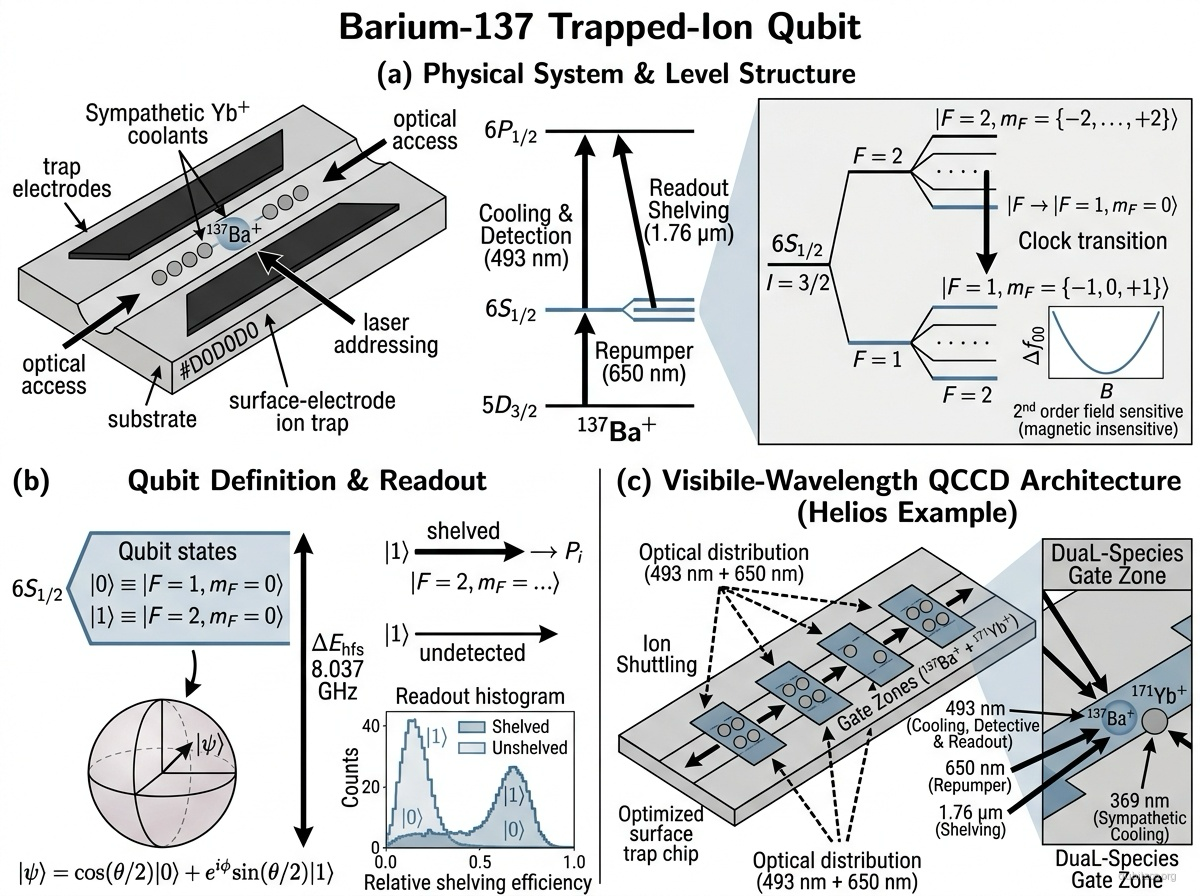
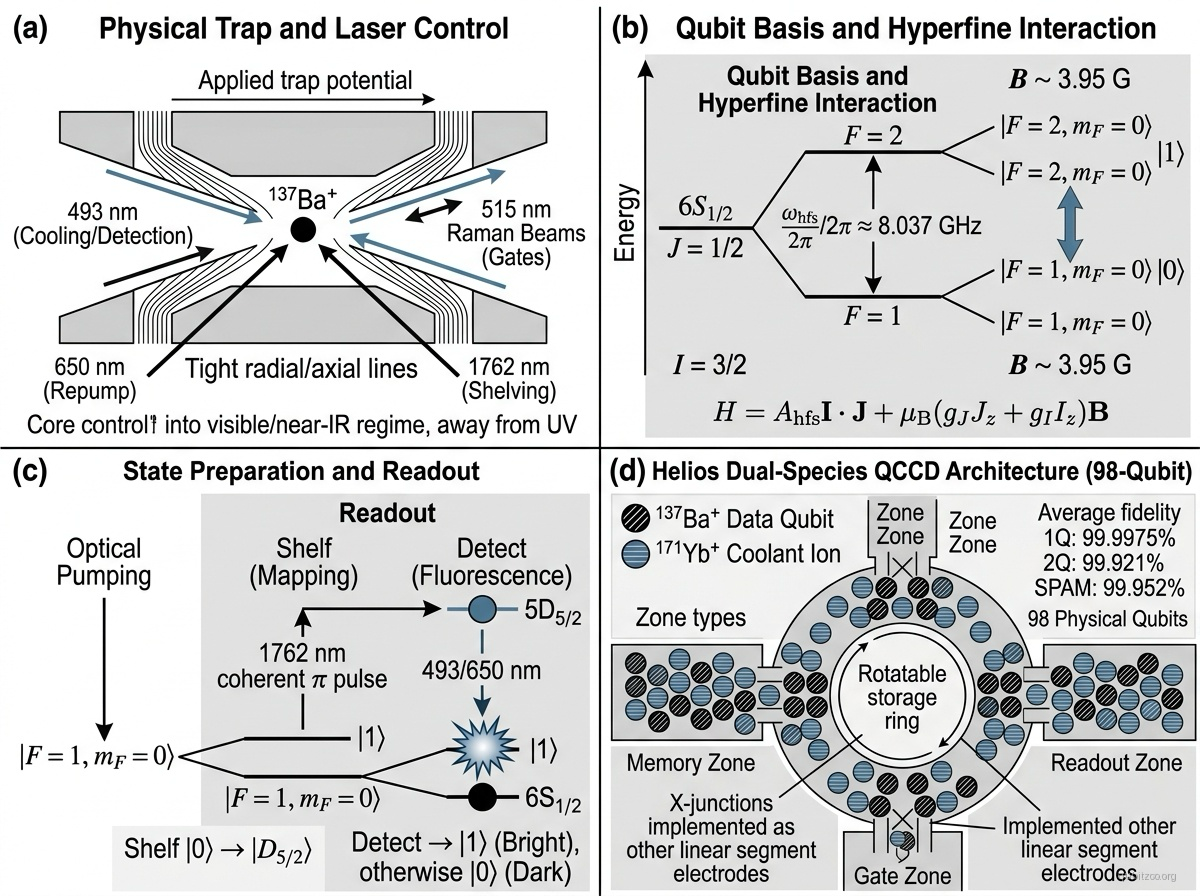
audit: deep-audit barium-137 trapped-ion entry

diff --git a/content/Zoo/barium-137-ion-qubit.md b/content/Zoo/barium-137-ion-qubit.md
@@ -3,7 +3,7 @@ title: Barium-137 Trapped-Ion Qubit
 entry_type: qubit
 technology_family: Trapped Ion
 status: demonstrated
-figure_reviewed: false
+figure_reviewed: true
 first_proposed_year: 2010
 first_demonstrated_year: 2010
 keywords:
@@ -18,10 +18,10 @@ keywords:
 - QCCD
 - dual species
 influence_score: 0.82
-last_updated: '2026-04-04'
+last_updated: '2026-04-06'
 generated_by: scibok-curation
 extracted_by: scibok
-verified_by: scibok-manual-2026-04-04
+verified_by: scibok-deep-audit-2026-04-06
 ---
 
 ## Figure
@@ -30,83 +30,93 @@ verified_by: scibok-manual-2026-04-04
 
 ## Description
 
-The barium-137 trapped-ion qubit encodes quantum information in the hyperfine clock states of the $^{137}\text{Ba}^+$ ion's $6S_{1/2}$ ground-state manifold. With nuclear spin $I = 3/2$, the ground state splits into $F = 1$ and $F = 2$ hyperfine levels separated by approximately 8.037 GHz. The qubit is defined on the magnetically insensitive $|F=2, m_F=0\rangle \leftrightarrow |F=1, m_F=0\rangle$ clock transition, providing first-order immunity to magnetic field fluctuations.
+The barium-137 trapped-ion qubit encodes quantum information in the hyperfine manifold of the $6S_{1/2}$ ground state of $^{137}\mathrm{Ba}^+$. With nuclear spin $I=3/2$, the ground state splits into $F=1$ and $F=2$ hyperfine levels separated by $\omega_{\mathrm{hfs}}/2\pi \approx 8.037\,\mathrm{GHz}$. Both the 2010 single-ion demonstration and Quantinuum's 2025 Helios processor define the qubit on the magnetically insensitive clock transition $|F=1,m_F=0\rangle \leftrightarrow |F=2,m_F=0\rangle$, with Helios taking $|0\rangle \equiv |F=1,m_F=0\rangle$ and $|1\rangle \equiv |F=2,m_F=0\rangle$.
 
-The key advantage of $^{137}\text{Ba}^+$ over other trapped-ion species is that all primary transitions — the cooling/detection transition at 493 nm ($6S_{1/2} \to 6P_{1/2}$) and the repumper at 650 nm ($5D_{3/2} \to 6P_{1/2}$) — lie in the visible spectrum. This eliminates the need for ultraviolet lasers required by $^{40}\text{Ca}^+$ (397 nm) and $^{171}\text{Yb}^+$ (369.5 nm), enabling the use of more mature, higher-power, and lower-noise visible-wavelength laser technology. The shelving transition to the long-lived $5D_{5/2}$ state at 1.76 μm provides high-fidelity state readout.
+A major attraction of $^{137}\mathrm{Ba}^+$ is its favorable laser stack for qubit control and readout. Fluorescence detection uses the 493 nm $6S_{1/2}\!\to\!6P_{1/2}$ transition with 650 nm repumping from $5D_{3/2}$, while shelving and protected measurement use the narrow 1762 nm transition to the metastable $5D_{5/2}$ manifold. In Helios, single- and two-qubit gates are driven by pairs of 515 nm Raman beams separated by the qubit splitting. Compared with ultraviolet-gated species, this pushes the core qubit-control optics into a more mature visible/near-IR regime with higher available laser power and reduced UV-induced optics degradation.
 
-Quantinuum's Helios processor (2025) adopted $^{137}\text{Ba}^+$ as its primary data qubit in a 98-qubit QCCD architecture, replacing ytterbium from the earlier H-series. The system uses a dual-species configuration: $^{137}\text{Ba}^+$ ions serve as data qubits while $^{171}\text{Yb}^+$ ions provide sympathetic cooling without disturbing the qubit states. This dual-species approach, combined with the visible-wavelength laser architecture, achieves two-qubit gate fidelities of 99.921% and single-qubit gate fidelities of 99.9975%.
+Quantinuum's Helios processor made $^{137}\mathrm{Ba}^+$ the first barium-based species deployed in a large-scale trapped-ion quantum computer. Helios is a 98-qubit QCCD processor with $^{137}\mathrm{Ba}^+$ data qubits and co-trapped $^{171}\mathrm{Yb}^+$ coolant ions for sympathetic recooling. Averaged over its operational zones, Helios reports single-qubit, two-qubit, and SPAM infidelities of $2.5(1)\times10^{-5}$, $7.9(2)\times10^{-4}$, and $4.8(6)\times10^{-4}$ respectively, corresponding to fidelities of 99.9975%, 99.921%, and 99.952%. In 2026, the same Helios hardware was used to demonstrate encoded computations with 48 to 94 logical qubits using high-rate iceberg codes.
 
 ## Hamiltonian
 
-The ground-state hyperfine Hamiltonian for $^{137}\text{Ba}^+$ ($I = 3/2$, $J = 1/2$):
+The relevant internal Hamiltonian is the hyperfine-plus-Zeeman Hamiltonian
 
-$$H_{\text{hfs}} = A_{\text{hfs}} \, \mathbf{I} \cdot \mathbf{J}$$
+$$H = A_{\mathrm{hfs}}\,\mathbf I\cdot\mathbf J + \mu_B\bigl(g_J J_z + g_I I_z\bigr)B,$$
 
-where $A_{\text{hfs}}$ is the magnetic dipole hyperfine constant. For $^{137}\text{Ba}^+$, the splitting gives:
+where $A_{\mathrm{hfs}}$ is the magnetic-dipole hyperfine constant, $\mathbf I$ is the nuclear spin, $\mathbf J$ is the electronic angular momentum, and $B$ is the applied bias field. For the $6S_{1/2}$ ground state of $^{137}\mathrm{Ba}^+$,
 
-$$\Delta E_{\text{hfs}} = h \times 8.037\,\text{GHz}$$
+$$\Delta E_{\mathrm{hfs}} = h\times 8.037\,\mathrm{GHz}.$$
 
-In an external magnetic field, the clock-state transition ($|F=2, m_F=0\rangle \leftrightarrow |F=1, m_F=0\rangle$) shifts only at second order:
-
-$$\omega_{01}(B) = \omega_{01}(0) + \beta B^2$$
-
-providing excellent field insensitivity analogous to other hyperfine clock qubits.
+At zero field, the $m_F=0 \leftrightarrow m_F=0$ transition is a true clock transition with no first-order Zeeman shift. Helios operates instead at a finite bias field of about $3.95\,\mathrm{G}$, where the qubit remains an approximate clock transition with second-order magnetic sensitivity; the paper quotes a second-order coefficient of $488.8\,\mathrm{Hz/G^2}$ at zero field. State preparation and measurement are implemented by coherently mapping the $|F=1,m_F=0\rangle$ state into the metastable $5D_{5/2}$ manifold with 1762 nm pulses, followed by fluorescence detection on the 493/650 nm cycling transitions.
 
 ## Motivation
 
-The visible-wavelength transitions of $^{137}\text{Ba}^+$ solve a major engineering bottleneck in scaling trapped-ion systems: UV lasers are expensive, lossy in fiber, and damage optical components over time. By operating entirely with visible and near-IR light, barium systems can leverage telecommunications-grade fiber optics and mature semiconductor laser technology. The nuclear spin $I = 3/2$ provides the four ground-state $m_F$ levels needed for a clock qubit while keeping the level structure manageable. The dual-species approach with ytterbium sympathetic cooling decouples the cooling and computation functions, enabling continuous motional cooling during long computations.
+Barium offers an unusually attractive trapped-ion engineering point: the qubit species itself can be controlled and measured primarily with visible and near-IR light rather than relying on deep-UV qubit lasers. That improves component availability, eases power delivery, and reduces long-term UV damage to fibers and optics. The $^{137}\mathrm{Ba}^+$ hyperfine clock transition also provides the standard trapped-ion virtues of long-lived ground-state storage and magnetic-field robustness.
+
+The species is especially compelling inside a QCCD architecture. In Helios, $^{137}\mathrm{Ba}^+$ serves as the data qubit while $^{171}\mathrm{Yb}^+$ handles sympathetic cooling, separating computation from recooling and helping preserve qubit coherence during long, transport-heavy programs. The tradeoff is that the full dual-species machine still requires additional UV infrastructure for the ytterbium coolant, so the visible-wavelength advantage applies primarily to the qubit species and gate/readout stack rather than the entire system.
 
 ## Experimental Status
 
-**Qubit characterization — Dietrich et al. (2010):**
-- First demonstration of state preparation, qubit rotation, and readout for both hyperfine and optical $^{137}\text{Ba}^+$ qubits.
-- Implemented the ground-state hyperfine qubit on the 8 GHz clock transition.
-- Demonstrated shelving-based readout using the $5D_{5/2}$ state.
+**First hyperfine-qubit demonstration — Dietrich et al. (2010):**
+- Demonstrated state preparation, microwave-driven qubit rotation, and shelving-based readout for a single $^{137}\mathrm{Ba}^+$ ion.
+- Implemented the ground-state hyperfine qubit on the 8.037 GHz clock transition.
+- Used the 1762 nm $6S_{1/2}\leftrightarrow 5D_{5/2}$ transition for selective shelving and readout.
 
-**Quantinuum Helios (2025) — Ransford et al.:**
-- 98-qubit QCCD processor using $^{137}\text{Ba}^+$ data qubits with $^{171}\text{Yb}^+$ sympathetic cooling.
-- Four-way "X" junction architecture with rotatable ion storage ring.
-- 1Q gate fidelity: 99.9975%, 2Q gate fidelity: 99.921%.
-- Full all-to-all connectivity via ion shuttling between 8 parallel gate zones.
-- Demonstrated up to 94 logical qubits from 98 physical qubits using Iceberg error-correcting codes.
+**Large-scale processor deployment — Ransford et al. (2025):**
+- Introduced Helios, a 98-qubit QCCD processor using $^{137}\mathrm{Ba}^+$ hyperfine qubits as data qubits.
+- Co-trapped $^{171}\mathrm{Yb}^+$ coolant ions provide sympathetic recooling with 369 nm light.
+- Reported average infidelities of $2.5(1)\times10^{-5}$ (1Q), $7.9(2)\times10^{-4}$ (2Q), and $4.8(6)\times10^{-4}$ (SPAM).
+- Used a four-way X junction, rotatable storage ring, and 8 parallel operation zones for all-to-all connectivity via transport.
+
+**Encoded-computation milestone on Helios — Dasu et al. (2026):**
+- Demonstrated beyond-break-even encoded computations on the 98-qubit Helios processor using high-rate iceberg codes.
+- Realized fault-tolerant and partially fault-tolerant benchmarks with between 48 and 94 logical qubits.
+- Shows that the barium-based Helios platform is now supporting logical-layer as well as physical-qubit milestones.
 
 ## Key Metrics
 
 | Metric | Value | Notes | Fidelity reference |
 |--------|-------|-------|--------------------|
-| $T_1$ | >10,000 s | Hyperfine ground states; no radiative decay channel | — |
-| Hyperfine splitting | 8.037 GHz | Clock transition, first-order field insensitive | [Dietrich et al. 2010](https://doi.org/10.1103/PhysRevA.81.052328) |
-| 1Q gate fidelity | 99.9975% | Helios system-level benchmark | [Ransford et al. 2025](https://arxiv.org/abs/2511.05465) |
-| 2Q gate fidelity | 99.921% | MS gate, Helios benchmark | [Ransford et al. 2025](https://arxiv.org/abs/2511.05465) |
-| Cooling transition | 493 nm | $6S_{1/2} \to 6P_{1/2}$; visible, no UV | [Dietrich et al. 2010](https://doi.org/10.1103/PhysRevA.81.052328) |
-| Repumper | 650 nm | $5D_{3/2} \to 6P_{1/2}$; visible | [Dietrich et al. 2010](https://doi.org/10.1103/PhysRevA.81.052328) |
-| System size | 98 qubits | Helios QCCD processor | [Ransford et al. 2025](https://arxiv.org/abs/2511.05465) |
-| Operating temperature | ~4 K (trap) | Ions laser-cooled to ~mK | — |
+| Hyperfine splitting | 8.037 GHz | $|F=1,m_F=0\rangle \leftrightarrow |F=2,m_F=0\rangle$ clock transition | [Dietrich et al. 2010](https://doi.org/10.1103/PhysRevA.81.052328) |
+| 1Q gate fidelity | 99.9975% | Helios zone-averaged benchmark | [Ransford et al. 2025](https://arxiv.org/abs/2511.05465) |
+| 2Q gate fidelity | 99.921% | Native $R_{ZZ}(\pi/2)$ / MS-family entangling benchmark on Helios | [Ransford et al. 2025](https://arxiv.org/abs/2511.05465) |
+| SPAM fidelity | 99.952% | From average infidelity $4.8(6)\times10^{-4}$ | [Ransford et al. 2025](https://arxiv.org/abs/2511.05465) |
+| 1Q/2Q gate wavelength | 515 nm | Raman beam pairs separated by the qubit splitting | [Ransford et al. 2025](https://arxiv.org/abs/2511.05465) |
+| Cooling / detection | 493 nm | $6S_{1/2} \to 6P_{1/2}$ fluorescence transition | [Dietrich et al. 2010](https://doi.org/10.1103/PhysRevA.81.052328) |
+| Repump wavelength | 650 nm | Clears population from $5D_{3/2}$ during fluorescence cycle | [Dietrich et al. 2010](https://doi.org/10.1103/PhysRevA.81.052328) |
+| Shelving wavelength | 1762 nm | Coherent mapping to the $5D_{5/2}$ manifold for readout | [Dietrich et al. 2010](https://doi.org/10.1103/PhysRevA.81.052328) |
+| Bias field (Helios) | 3.95 G | Approximate clock-state operation point | [Ransford et al. 2025](https://arxiv.org/abs/2511.05465) |
+| Logical qubits demonstrated | 48–94 | High-rate iceberg-code benchmarks on Helios | [Dasu et al. 2026](https://arxiv.org/abs/2602.22211) |
 
 ## Scaling Considerations
 
-- **Visible-wavelength advantage**: eliminates UV-induced damage to optics and fibers, reduces laser system cost and complexity, and enables use of high-power visible-wavelength semiconductor lasers.
-- **Dual-species overhead**: maintaining two ion species requires additional laser systems and trap control complexity, but decouples cooling from computation.
-- **Isotope abundance**: $^{137}\text{Ba}$ has only 11% natural abundance (vs. 100% for $^{171}\text{Yb}$ via enrichment), requiring isotope-selective loading or enriched sources.
-- **QCCD transport**: as with all shuttling architectures, ion transport time and junction-crossing errors add overhead, though Helios demonstrates this at scale.
-- **Laser complexity tradeoff**: while UV is avoided, the $^{137}\text{Ba}^+$ system still requires multiple visible-wavelength lasers with sidebands to address all hyperfine levels.
+- **Visible/near-IR qubit optics**: the barium qubit species moves gate, shelving, and fluorescence hardware away from deep-UV qubit lasers, improving component availability and reducing optics degradation.
+- **Not a fully UV-free computer**: Helios still relies on $^{171}\mathrm{Yb}^+$ sympathetic cooling at 369 nm, so the visible-wavelength advantage is species-specific rather than system-wide.
+- **Dual-species complexity**: mixed-species loading, transport, recooling, and calibration add real overhead, even though they decouple cooling from computation.
+- **QCCD transport overhead**: shuttling through junctions and between storage and logic zones trades wiring simplicity for transport scheduling, calibration burden, and clock-speed limits.
+- **Isotope logistics**: $^{137}\mathrm{Ba}$ is only about 11% naturally abundant, so isotope-selective loading or enriched sources remain operational considerations.
+- **Measurement complexity**: the high-fidelity readout stack is powerful but nontrivial, involving coherent 1762 nm mapping pulses, fluorescence cycling, and crosstalk-mitigation protocols.
 
 ## References
 
 ### Qubit characterization
-- M. R. Dietrich et al., "Hyperfine and optical barium ion qubits," [Phys. Rev. A 81, 052328 (2010)](https://doi.org/10.1103/PhysRevA.81.052328) | [arXiv:1004.1161](https://arxiv.org/abs/1004.1161)
+- M. R. Dietrich, N. Kurz, T. Noel, G. Shu, and B. B. Blinov, "Hyperfine and optical barium ion qubits," [Phys. Rev. A 81, 052328 (2010)](https://doi.org/10.1103/PhysRevA.81.052328) | [arXiv:1004.1161](https://arxiv.org/abs/1004.1161)
 
-### System demonstration
+### Large-scale processor
 - A. Ransford et al., "Helios: A 98-qubit trapped-ion quantum computer," [arXiv:2511.05465 (2025)](https://arxiv.org/abs/2511.05465)
+
+### Logical-layer milestone
+- S. Dasu et al., "Computing with many encoded logical qubits beyond break-even," [arXiv:2602.22211 (2026)](https://arxiv.org/abs/2602.22211)
 
 ## Linked Papers
 
 - [[dietrich-2010-barium-hyperfine-qubit]]
 - [[ransford-2025-helios-98-qubit]]
+- [[dasu-2026-many-encoded-logical-qubits]]
 
 ## Related Entries
 
 - [[trapped-ion-qubit]] — parent platform
-- [[ytterbium-hyperfine-qubit]] — alternative hyperfine ion species; Yb-171 used as sympathetic coolant in Helios
+- [[ytterbium-hyperfine-qubit]] — alternative hyperfine ion species; Yb-171 serves as sympathetic coolant in Helios
+- [[strontium-88-ion-qubit]] — another visible-wavelength trapped-ion species for comparison
 - [[shuttling-ion-trap-qubit]] — QCCD architecture used by Helios
-- [[molmer-sorenson-gate]] — entangling gate used in Ba+ systems
+- [[molmer-sorenson-gate]] — entangling gate family used in Ba+ systems
